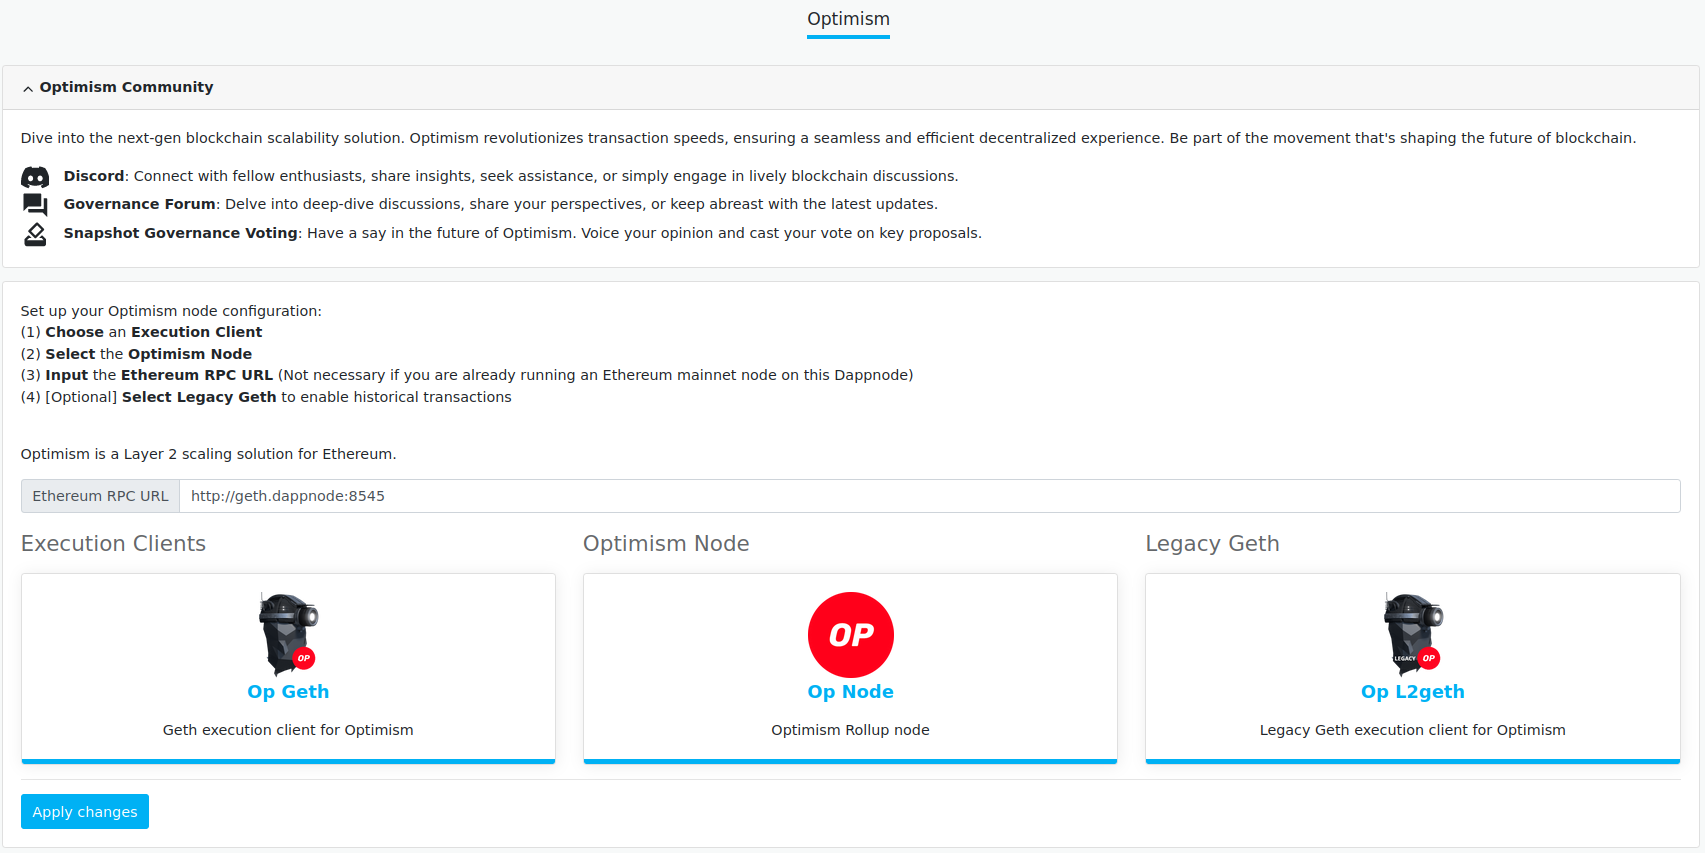
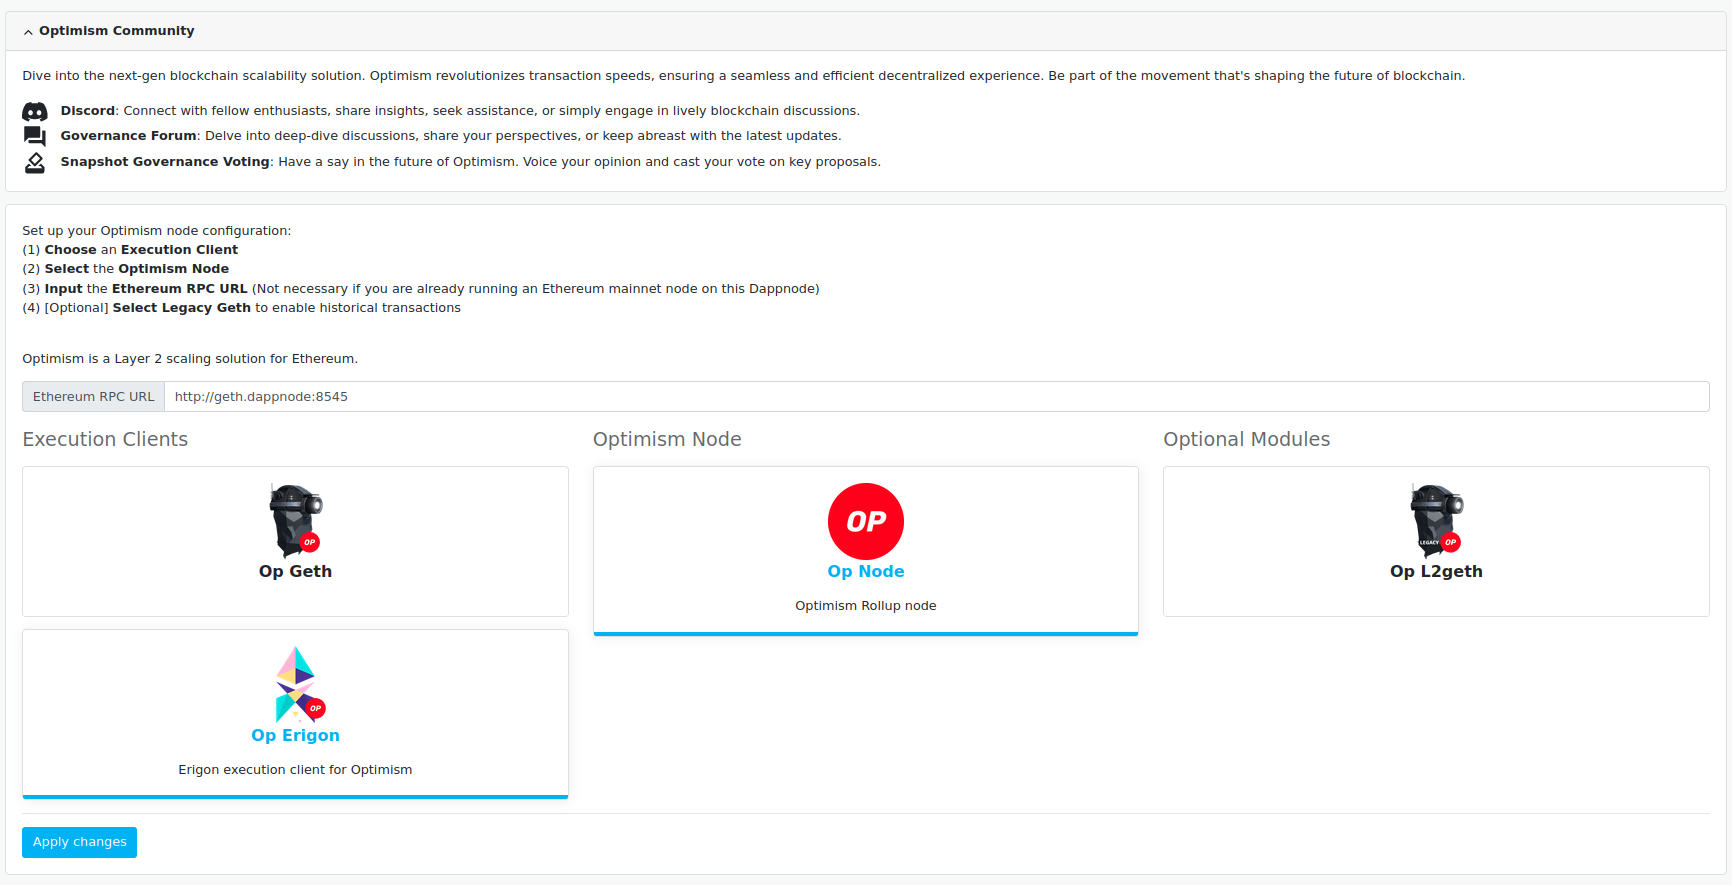
Add OP Erigon to OP

diff --git a/docs/user/rollups/optimism.md b/docs/user/rollups/optimism.md
@@ -9,12 +9,14 @@ Optimism is Ethereum's Layer 2 solution, leveraging Optimistic Rollups to enhanc
 Optimism stands out as the inaugural choice in the Rollups suite. Initiating an Optimism node on Dappnode parallels the familiar Stakers Menu, yet with some distinctions:
 
 - Utilize an `op-node` client to link with the Optimism Mainnet.
-- Employ `op-geth` or the forthcoming `op-erigon` client to bridge your `op-node` to Ethereum's execution layer, echoing the beacon chain/consensus client's role on the mainnet.
+- Employ `op-geth` or `op-erigon` to bridge your `op-node` to Ethereum's execution layer, echoing the beacon chain/consensus client's role on the mainnet.
 - For archive nodes, `op-legacy` is essential for transactions predating the Bedrock upgrade.
 - A connection to an Ethereum Mainnet node is required. If your Dappnode already operates one, the Rollups menu will streamline configuration. Otherwise, integrate a public RPC for Ethereum Mainnet connection.
 
 For a deeper dive, consult Optimism’s documentation:
 
 - [OP Geth docs](https://op-geth.optimism.io/)
+
+- [Test In Prod - OP Erigon](https://github.com/testinprod-io/op-erigon)
 
 - [OP Node Operator](https://community.optimism.io/docs/developers/bedrock/node-operator-guide/)
